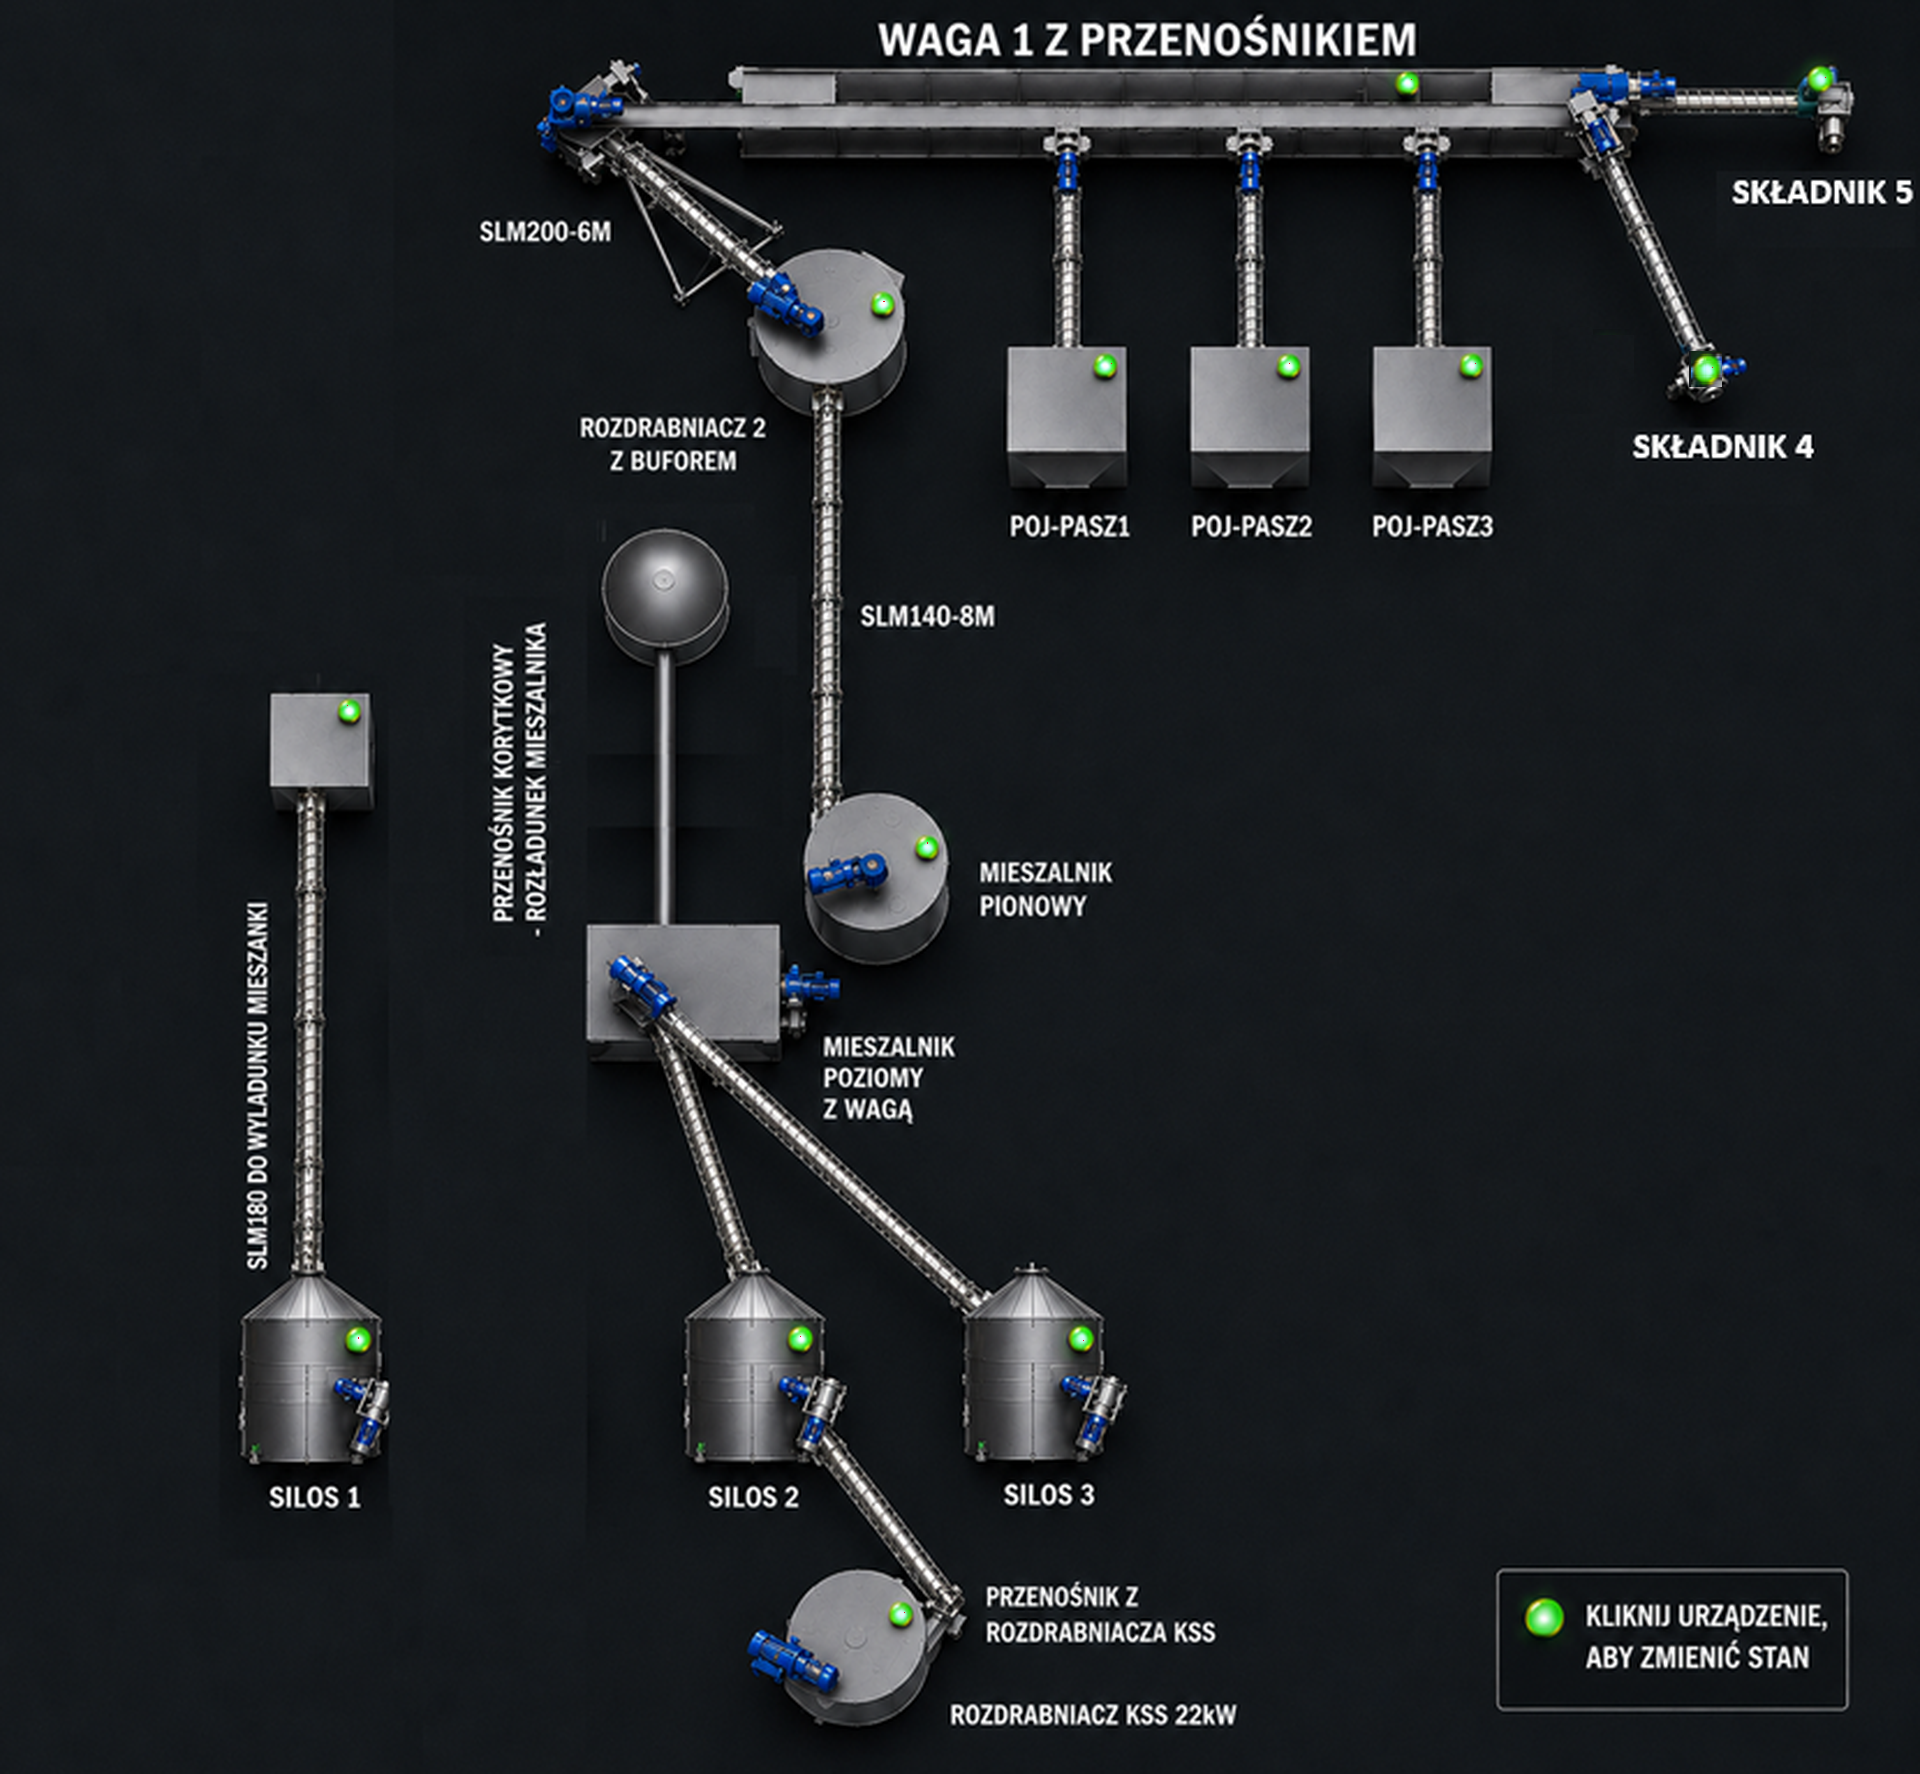
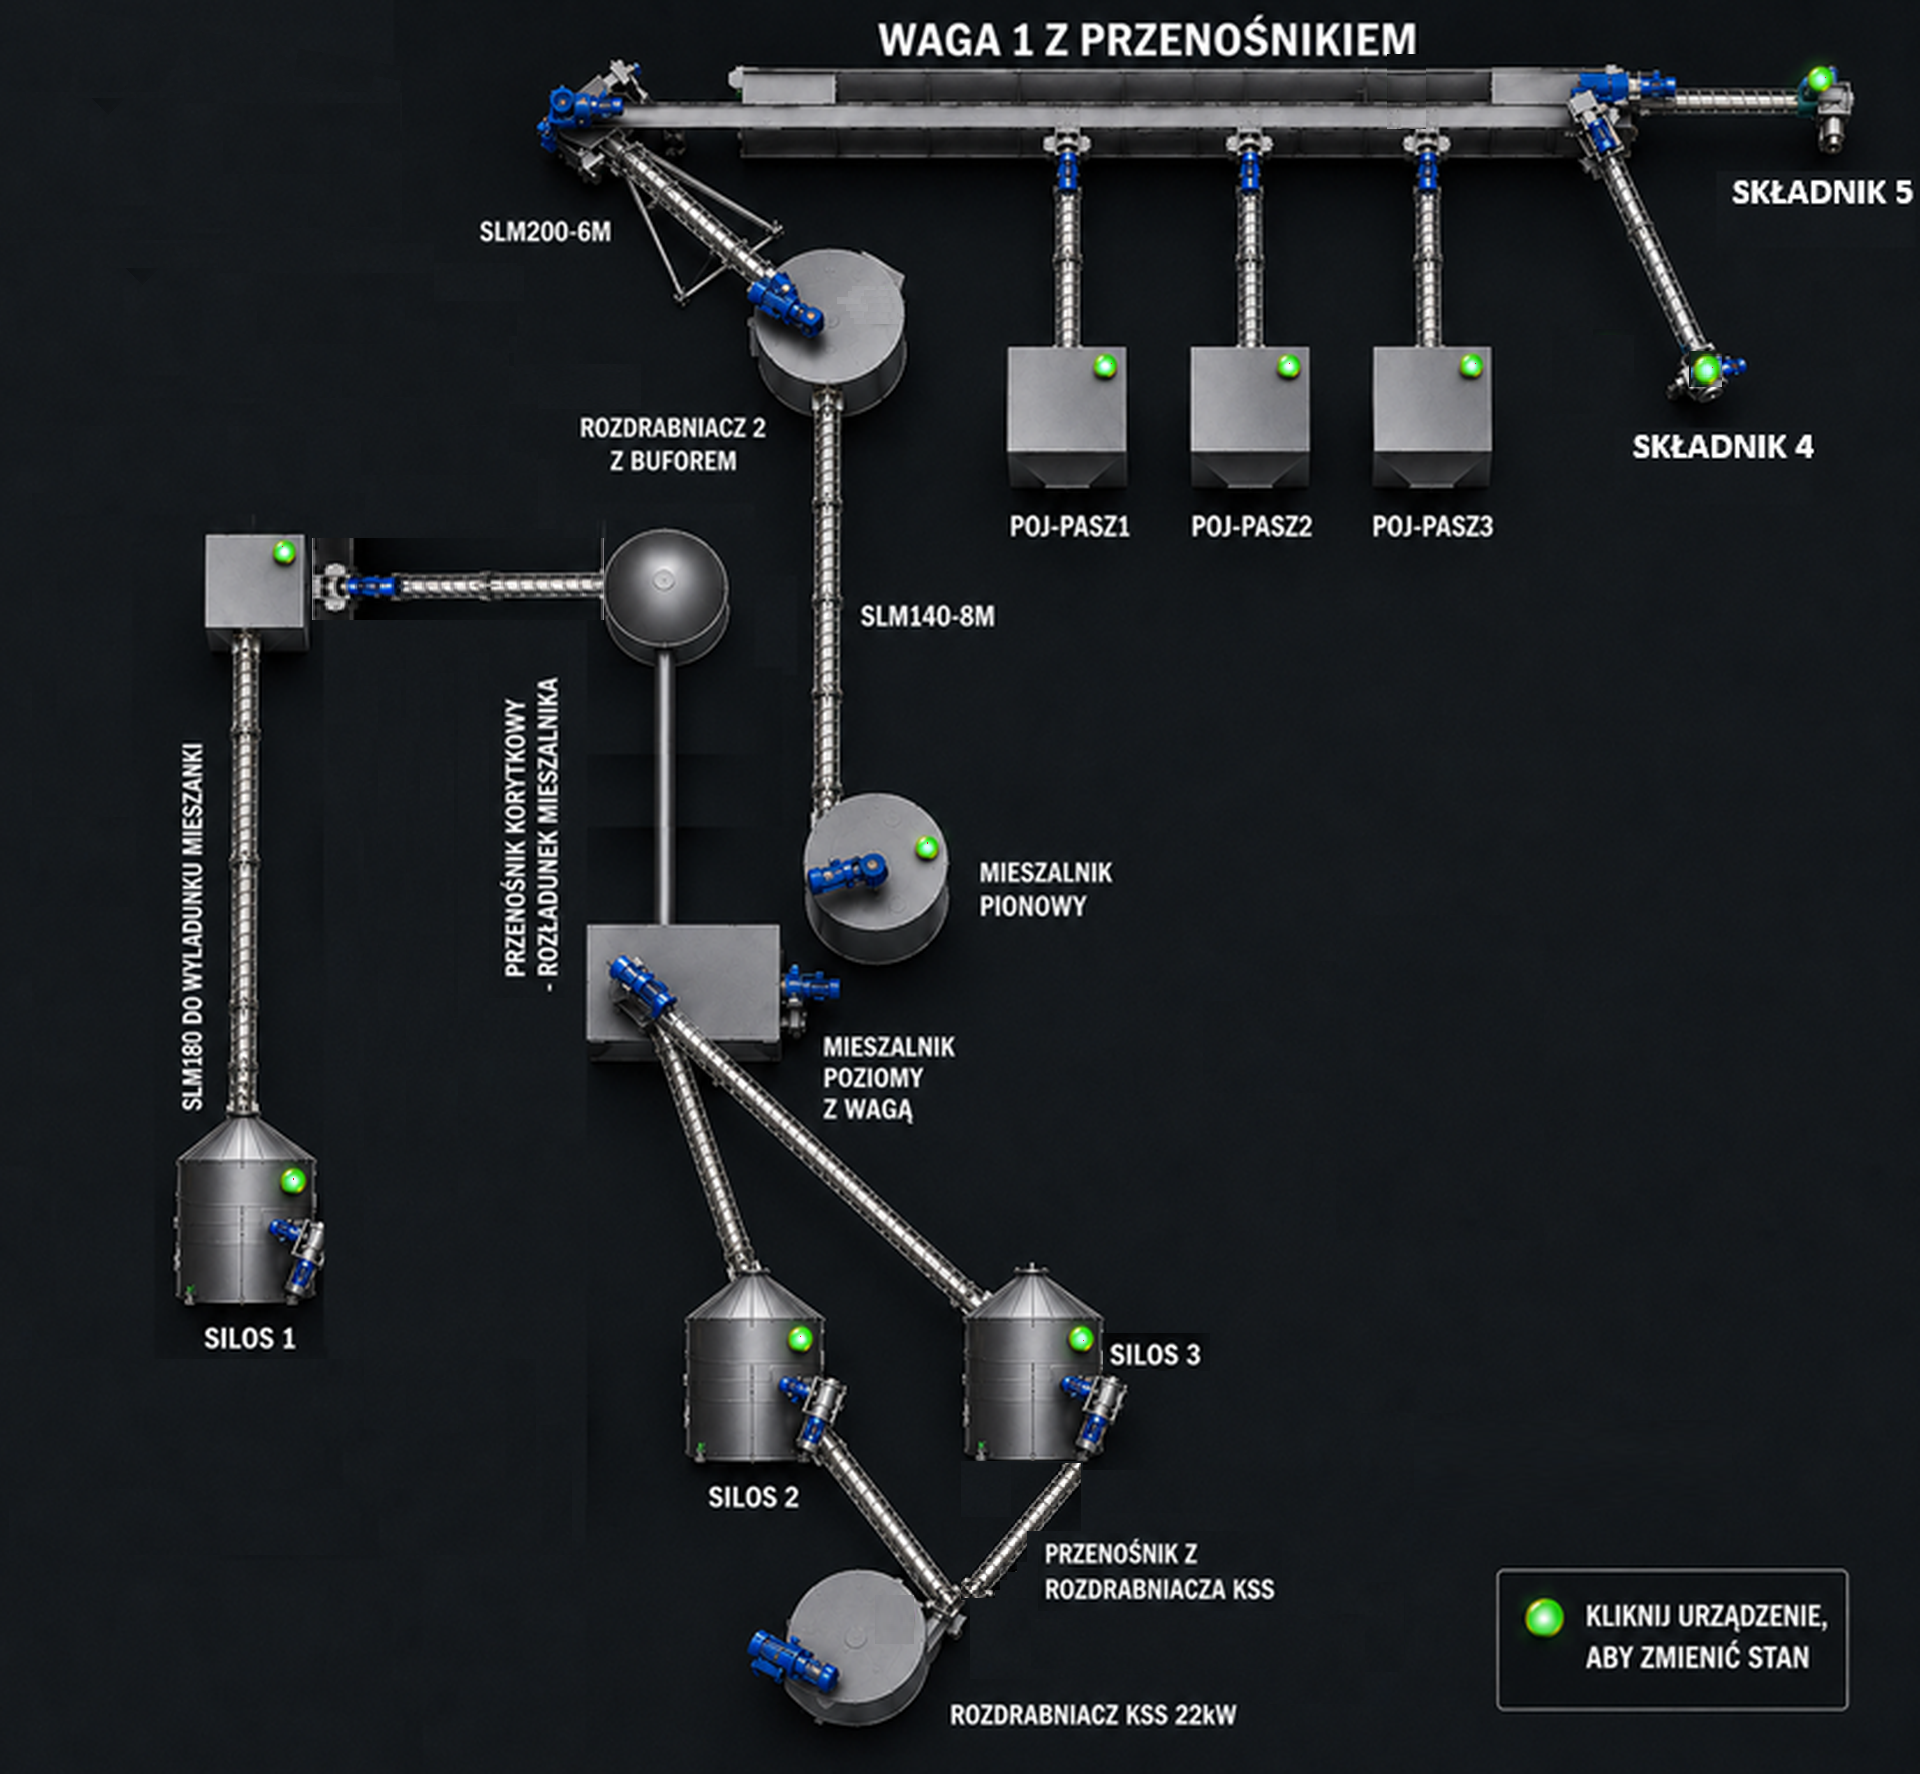
Add files via upload

diff --git a/index.html b/index.html
@@ -254,8 +254,8 @@ id="map">
 <!-- ================= HOTSPOTY ================= -->
 
 <!-- WAGA -->
-<div class="hotspot" id="h0" style="left:1398px;top:76px" onclick="toggle(0)"></div>
-<div class="led on" id="l0" style="left:1398px;top:76px"></div>
+<div class="hotspot" id="h0" style="left:798px;top:76px" onclick="toggle(0)"></div>
+<div class="led on" id="l0" style="left:798px;top:76px"></div>
 
 <!-- SKŁADNIK 5 -->
 <div class="hotspot" id="h1" style="left:1810px;top:67px" onclick="toggle(1)"></div>
@@ -266,8 +266,8 @@ id="map">
 <div class="led on" id="l2" style="left:1700px;top:357px"></div>
 
 <!-- ROZDRABNIACZ 2 -->
-<div class="hotspot" id="h3" style="left:868px;top:292px" onclick="toggle(3)"></div>
-<div class="led on" id="l3" style="left:872px;top:292px"></div>
+<div class="hotspot" id="h3" style="left:770px;top:370px" onclick="toggle(3)"></div>
+<div class="led on" id="l3" style="left:770px;top:370px"></div>
 
 <!-- POJEMNIK PASZA 1 -->
 <div class="hotspot" id="h4" style="left:1093px;top:359px" onclick="toggle(4)"></div>
@@ -286,8 +286,8 @@ id="map">
 <div class="led on" id="l7" style="left:917px;top:839px"></div>
 
 <!-- SILOS 1 -->
-<div class="hotspot" id="h8" style="left:350px;top:1325px" onclick="toggle(8)"></div>
-<div class="led on" id="l8" style="left:350px;top:1329px"></div>
+<div class="hotspot" id="h8" style="left:283px;top:1172px" onclick="toggle(8)"></div>
+<div class="led on" id="l8" style="left:285px;top:1172px"></div>
 
 <!-- SILOS 2 -->
 <div class="hotspot" id="h9" style="left:790px;top:1325px" onclick="toggle(9)"></div>
@@ -298,16 +298,24 @@ id="map">
 <div class="led on" id="l10" style="left:1074px;top:1329px"></div>
 
 <!-- ROZDRABNIACZ KSS -->
-<div class="hotspot" id="h11" style="left:890px;top:1605px" onclick="toggle(11)"></div>
-<div class="led on" id="l11" style="left:890px;top:1605px"></div>
+<div class="hotspot" id="h11" style="left:890px;top:1655px" onclick="toggle(11)"></div>
+<div class="led on" id="l11" style="left:890px;top:1655px"></div>
 
 <!-- MIESZALNIK POZIOMY -->
 <div class="hotspot" id="h12" style="left:720px;top:980px" onclick="toggle(12)"></div>
 <div class="led on" id="l12" style="left:720px;top:980px"></div>
 
 <!-- SLM -->
-<div class="hotspot" id="h13" style="left:342px;top:704px" onclick="toggle(13)"></div>
-<div class="led on" id="l13" style="left:342px;top:704px"></div>
+<div class="hotspot" id="h13" style="left:272px;top:543px" onclick="toggle(13)"></div>
+<div class="led on" id="l13" style="left:272px;top:543px"></div>
+
+<!-- PRZENOSNIK KSS -->
+<div class="hotspot" id="h14" style="left:890px;top:1535px" onclick="toggle(14)"></div>
+<div class="led on" id="l14" style="left:890px;top:1535px"></div>
+
+<!-- COSINNE -->
+<div class="hotspot" id="h15" style="left:650px;top:570px" onclick="toggle(15)"></div>
+<div class="led on" id="l15" style="left:650px;top:570px"></div>
 
 </div>
 </div>